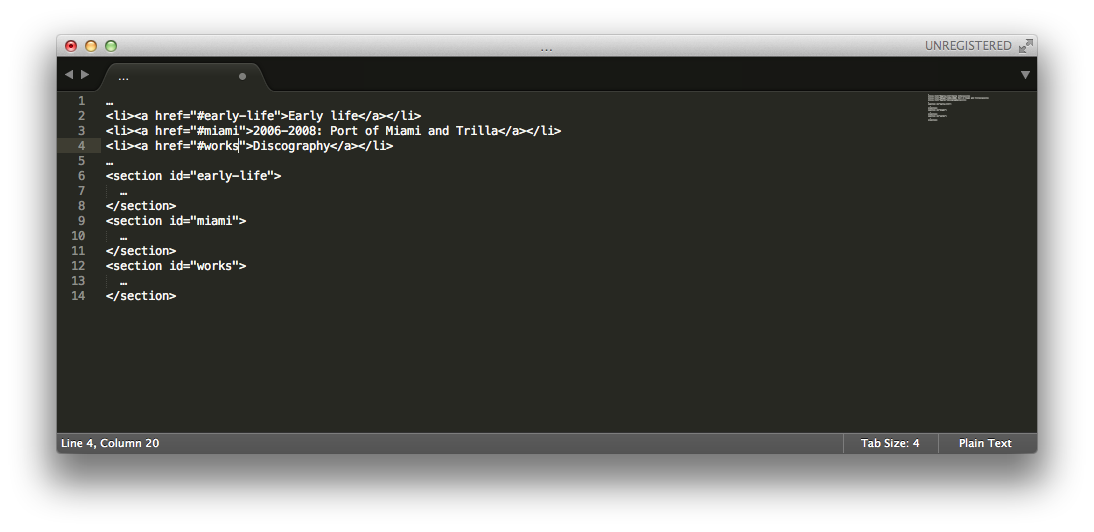
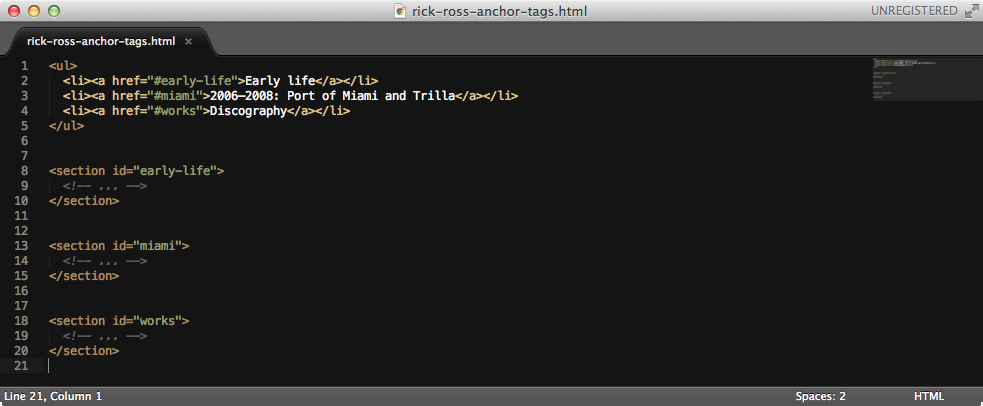
Practice fix started

diff --git a/mcs101.html b/mcs101.html
@@ -11,7 +11,7 @@
   <header class="page">
     <section class="wrapper">
       <section class="container">
-        <a class="link" href="http://bit.ly">bit.ly/mcs101</a>
+        <a class="link" href="http://bit.ly/MCS101">bit.ly/MCS101</a>
         <div class="line"></div>
         <div class="basics">Основы</div>
         <div class="html">HTML</div>
@@ -469,14 +469,43 @@
       <h3></h3>
       <p>Добавим несколько тегов</p>
 
-      <p class="center grey">Для быстрого написания открывающего и закрывающего тегов<br>напишите название тега и нажмите Tab.</p>
+      <p>Для быстрого написания открывающего и закрывающего тегов<br>напишите название тега и нажмите Tab.</p>
+
+      <p>В некоторых случаях можно удобно раздвинуть курсор на несколько строк используя сочетания Ctrl + Shift + &uarr; и Ctrl + Shift + &darr;. Дополнительный курсор можно вставить в любое место зажав Cmd.</p>
 
       <div class="img">
         <img src="imgs/09-hello-world-with-h-and-p.png">
       </div>
 
       <div class="img">
-        <img src="imgs/04-hello-world-in-browser.png">
+        <img src="imgs/09-hello-world-with-h-and-p-chrome.jpg">
+      </div>
+    </section>
+
+    <section>
+      <h3>Encoding</h3>
+      <p>Кодировка или как браузер понимает документ.</p>
+
+      <p>Если мы хотим общаться правильно, нам надо сказать браузеру<br>на каком "языке" мы с ним будем говорить.</p>
+
+      <p>Замените любой текст в нашем документе на русский и проверьте в браузере как он выглядит.</p>
+
+      <div class="img">
+        <img src="imgs/10-hello-world-with-charset-1.png">
+      </div>
+
+      <div class="img">
+        <img src="imgs/10-hello-world-with-charset-2.jpg">
+      </div>
+
+      <p>Необходимо указать кодировку в который мы будем передавать данные. Основным стандартом на сегодняшний день является UTF-8 или Unicode.</p>
+
+      <div class="img">
+        <img src="imgs/10-hello-world-with-charset-3.png">
+      </div>
+
+      <div class="img">
+        <img src="imgs/10-hello-world-with-charset-4.jpg">
       </div>
     </section>
 
@@ -495,27 +524,28 @@
       <h3></h3>
       <p>Организуем правильный DOM</p>
 
-      <p class="center grey">Для управления уровнем вложенности тега используйте сочетания<br>Cmd + [ и Cmd + ]. В некоторых случаях можно удобно раздвинуть курсор<br>на несколько строк используя сочетания Ctrl + Shift + &uarr; и Ctrl + Shift + &darr;.<br>Дополнительный курсор можно ставить в любое место зажав Cmd.</p>
+      <p>Для развёртывания базовой HTML структуры введите восклицательный знак и нажмите Tab.</p>
 
       <div class="img">
-        <img src="imgs/10-hello-world-with-dom.png">
+        <img src="imgs/10-hello-world-with-dom-1.png">
+      </div>
+
+      <p>В тег <code class="tagColor">title</code> пишется заголовок, который будет отображаться в окне браузера и в поисковике. Замените на что-то более релевантное нашей странице, например Hello World.</p>
+
+      <div class="img">
+        <img src="imgs/10-hello-world-with-dom-2.png">
+      </div>
+
+      <p>Теперь перенесите заголовки и параграф текста внутрь тега <code class="tagColor">body</code>.<br>Для управления уровнем вложенности тега используйте сочетания<br>Cmd + [ и Cmd + ].</p>
+
+      <div class="img">
+        <img src="imgs/10-hello-world-with-dom-3.png">
       </div>
 
       <p class="center grey">В редакторах кода предусмотрены различные цветовые схемы. Что бы код у нас с вами выглядел одинакого переключите цветовую схему<br>Preferences > Color Scheme > Twilight.</p>
 
       <div class="img">
         <img src="imgs/10-hello-world-with-dom-in-chrome.png">
-      </div>
-    </section>
-
-    <section>
-      <h3>Encoding</h3>
-      <p>Кодировка или как браузер понимает документ</p>
-
-      <p class="center grey">Если мы хотим общаться правильно, нам надо сказать браузеру<br>на каком "языке" мы с ним будем говорить.</p>
-
-      <div class="img">
-        <img src="imgs/10-hello-world-with-charset.png">
       </div>
     </section>
 
@@ -648,8 +678,6 @@
         <img src="imgs/14-html-formatting-1.png">
       </div>
 
-      <p class="center grey">Как мы уже сказали, HTML код предствляет иерархию, поэтому правила форматирования HTML помогают увидеть эту иерархию<br> работающему с кодом человеку.</p>
-
       <div class="img">
         <img src="imgs/14-html-formatting-2.png">
       </div>
@@ -699,25 +727,32 @@
     <h2>Zen Coding</h2>
 
     <section>
-      <p>История термина zen coding берёт свое начало из нулевых когда один из преподавателей Moscow Coding School — Сергей Чикуенок, на тот момент работавший в студии Артемия Лебедева, создал одноименный плагин который позволял кодерам писать меньше, а делать больше.</p>
+      <p>Мы уже показали вам несколько фишек дзен кодинга, такие как раздвигание курсора на несколько строк и раскрывание базовой структуры HTML документа. История этого термина берёт свое начало из 2008 года, тогда Вадим Макеев впервые представил инструмент для быстрого генерирования кода Zen Coding. Годом позже один из преподавателей Moscow Coding School — Сергей Чикуенок, на тот момент работавший в студии Артемия Лебедева, присоединился к проекту и стал его самым значимым контрибьютером.</p>
 
-      <p>Позже, Сергей создал более универсальный плагин Emmet, который мы сейчас рассмотрим.</p>
+      <p>На сегодняшний день многие концепции Zen Coding инкорпорированы в современные редакторы кода, а его код является общедоступным. Проект переименован в Emmet.</p>
     </section>
 
     <section>
+      <h3>Установка Emmet</h3>
+      <p>Для установки дополнительных плагинов в Sublime Text входим в командную сроку нажатием Cmd + Shift + P и находим<br>Package Control: Install Package.</p>
 
-      <p>3) Открываем командную стоку Sublime Text 2 нажатием Сtrl+Shift+P на Windows или Cmd+Shift+P на OSX и находим Package Control: Install Package.<br>То же самое можно сделать выбрав из меню Preferences -> Package Control</p>
-      <p>4) Теперь вы должны увидеть список пакетов доступных для установки. Нужный нам пакет называется Emmet.  Находим пакет Emmet (просто начните вводить <code>"emme..."</code> в Sublime Text 2 предусмотрен умный поиск). И нажимаем Enter чтоб установить.</p>
-      <br />
-      <br />
+      <p class="center grey">То же самое можно сделать выбрав из меню<br>Preferences -> Package Control.</p>
 
+      <p>Наните вводить название необходимого плагина и он появится в выдаче поиска. После выбора плагина нажмите Enter.</p>
 
-      <h3>Приступим к Zen кодингу.</h3> 
-      <p>Основные его правила можно описать в нескольких пунктах:</p>
-      <p>0) Главное правило для работы всех подсказок Emmet и Sublime это необходимость сохранить файл в нужном расширении, то есть для нашего случая это будет <code>'.html'</code></p>
-      <p>1) Попробуем создать небольшое меню для этого просто наберем <code>'div#header>ul#nav>li*4'</code> и нажмем клавишу <code>TAB</code></p>
+      <div class="img">
+        <img src="imgs/26-emmet.png">
+      </div>
+    </section>
+
+    <section>
+      <h3>Приступим к дзен кодингу</h3> 
+      <p>Главное правило для работы всех подсказок Emmet и Sublime — необходимость сохранить файл в нужном расширении,<br>то есть для нашего случая это будет <code class="tagColor">.html</code>.</p>
+
+      <p>Попробуем создать небольшое меню. Наберите <code>div#header>ul#nav>li*4</code> и нажмите Tab.</p>
+
       <p>Emmet автоматически создаст нам нужную разметку и задаст указанные атрибуты class и id</p>
-      <p>2) Попробуем выделить нашу конструкцию и нажмем сочетание <br /> <code>^W (Shift+Ctrl+G для PC)</code><br />
+      <p>2) Попробуем выделить нашу конструкцию и нажмем сочетание <br /> <code>Ctrl + W (Shift+Ctrl+G для PC)</code><br />
       внизу редактора откроется консоль и попросит нас ввести тег которым мы хотим обернуть данный элемент, вводим <code>'html>body'</code> и у нас уже готов базовый mark-up нашей страницы.</p>
       <p>Также мы можем просто написать в столбец <br>1<br>2<br>3<br>4<br> и выделив снова вызвать консоль оборачивания после чего указать тег списка внутри которого будут находиться элементы списка <code>'ul>li*'</code> где звездочка в данном случае укажет что для каждой строки нужно задать свой отдельный элемент и Emmet выполнит нашу просьбу </p>
       <p>3) Также Emmet позволяет нам двигаться внутри документа более быстро с зажатой клавишей <code>alt</code></p>
@@ -728,33 +763,22 @@
       <p>Для ознакомления с полным функционалом Emmet советую вам сходить на <br><a href="https://github.com/sergeche/emmet-sublime">страницу Github Сергея Чикуенка</a></p>
     </section>
 
-
-
-
     <h2>Практика</h2>
 
     <section>
       <h3>Давайте попробуем поупражняться в написании кода</h3>
       <p>Сейчас мы закодим свой вариант википедии</p>
 
-      <p class="center grey"><a href="exercises/exercise1.html">Упражнение 1</a></p>
+      <p>Откройте, пожалуйста, страницу <a href="http://en.wikipedia.org/wiki/Rick_Ross" target="_blank">Рика Роса</a>.</p>
+      <p>Создайте папку <code>wikipedia</code> внутри нашей папки MCS1.</p>
 
-      <br>
-
-      <p>Откройте, пожалуйста, страницу <a href="http://en.wikipedia.org/wiki/Rick_Ross">Рика Роса</a>.</p>
-      <p>Создайте папку <code>wikipedia</code> внутри нашей папки MCS1</p>
       <p>Создайте новый файл в текстовом редакторе (File – New File) и сохраните его в папку wikipedia с именем <code>rick-ross.html</code> Пробелы не являются разрешенными символами для адресов страниц, поэтому мы заменяем пробелы на знак «минус». Кроме того, для адресов страниц принято использовать латинские буквы в нижнем регистре.</p>
-    </section>
 
-    <section>
-      <h3>Давайте попробуем поупражняться в написании кода</h3>
-      <p>Сейчас мы закодим свой вариант википедии</p>
-
-      <div class="img plee">
-        <img height="" src="imgs/17-example3.png">
+      <div class="img">
+        <img src="imgs/17-rick-ross.png">
       </div>
 
-      <p class="center"><a href="examples/example3.html">Результат</a></p>
+      <p class="center"><a href="examples/wikipedia/rick-ross.html" target="_blank">Результат</a></p>
     </section>
 
     <section>
@@ -782,32 +806,31 @@
           <td><code>&lt;a&gt;&lt;/a&gt;</code></td>
           <td>Anchor – королева всех элементов, ссылка. У ссылки есть необходимый аттрибут — href (hypertext reference) — который указывает куда именно ведет ссылка. В нашем примере мы использовали <em>идентификатор фрагмента документа</em> в качестве адреса ссылки. То есть при навигации по этой ссылке браузер должен перейте к обозначенному фрагменту.</td>
         </tr>
-        <tr>
-          <td><code>&lt;h2&gt;&lt;/h2&gt;</code></td>
-          <td>Heading 2 – заголовок второго уровня, используется для подзаголовоков, задающих тему последующих кусков информации.</td>
-        </tr>
       </table>
     </section>
 
     <section>
       <h3>Фрагменты и ссылки</h3>
-      <p>Обратите внимание на аттрибуты секций и ссылок в разделе “Contents”</p>
+      <p>Обратите внимание на аттрибуты секций и ссылок.</p>
 
-      <div class="img plee">
+      <div class="img">
         <img src="imgs/18-iddesc.png">
       </div>
 
-      <p>Аттрибут <code class="tagColor">id</code> позволяет выделить фрагмент документа, т.е. при помощи этого аттрибута браузер знает к какому фрагменту нужно перейти при навигации по соответствующей ссылке.</p>
+      <p>Аттрибут <code class="tagColor">id</code> добавляет элементу уникальный идентификатор, т.е. при помощи этого аттрибута браузер знает к какому фрагменту нужно перейти при навигации по соответствующей ссылке.</p>
     </section>
 
     <section>
       <h3>Ссылки</h3>
-      <p>Мы сделали так, чтобы браузер перешел к определенному фрагменту нашей страницы. Но главное качество гипертекста — это ссылки между разными документами</p>
+      <p>Мы сделали так, чтобы браузер перешел к определенному фрагменту нашей страницы. Но главное качество гипертекста —<br>это ссылки между разными документами.</p>
 
-      <p>Создайте новый файл в папке <code>wikipedia</code> с именем <code>drake.html</code></p>
-      <p>Отройте его и скопируйте в него следующий код, но замените значение аттрибута <code>href</code> на название первого файла, а текст внутри тэга замените на такой, который подходит вашей странице по смыслу</p>
+      <p>В биографии Рика Росса есть ссылка на лейбл <a href="http://en.wikipedia.org/wiki/Maybach_Music_Group" target="_blank">Maybach Music Group</a>.</p>
 
-      <div class="img plee">
+      <p>Создайте новый файл в папке <code>wikipedia</code> с именем <code>maybach-music-group.html</code></p>
+
+      <p>Разверните в нём базовую структуру HTML, смените заголовок на название лейбла, создайте как в предидущей страничке заголовок и параграф текста.</p>
+
+      <div class="img">
         <img src="imgs/19-links1.png">
       </div>
 
@@ -839,7 +862,7 @@
     </section>
 
     <section>
-      <p>В папке wikipedia создайте папку imgs, откройте картинку по <a href="imgs/rick-ross.jpg">ссылке</a> и сохраните ее в только что созданную папку imgs</p>
+      <p>В папке wikipedia создайте папку imgs, откройте картинку по <a href="imgs/rick-ross.jpg">ссылке</a> и сохраните ее в только что созданную папку imgs.</p>
       <p>Давайте добавим новую секцию в нашу страницу на википедии сразу за первой секцией с параграфом текста.</p>
 
       <div class="img plee">
@@ -851,20 +874,20 @@
 
     <section>
       <h3>Стили</h3>
-      <p>Есть несколько способов подключить стили к документу HTML</p>
+      <p>Есть несколько способов подключить стили к документу HTML.</p>
     </section>
 
     <section>
       <h3>Элемент &lt;style></h3>
-      <p>Давайте откроем код нашей страницы и добавим новый элемент <code>style</code> внутри элемента <code>head</code></p>
+      <p>Давайте откроем код нашей страницы и добавим новый элемент <code>style</code> внутри элемента <code>head</code>.</p>
 
-      <div class="img plee">
+      <div class="img">
         <img src="imgs/css1.png">
       </div>
 
-      <p class="center">Напишем наш первый CSS</p>
+      <p class="center">Напишем наш первый CSS.</p>
 
-      <div class="img plee">
+      <div class="img">
         <img src="imgs/css2.png">
       </div>
 
@@ -892,12 +915,10 @@
 
     <section>
       <h3>Стили в отдельном файле</h3>
-      <p>Обычно удобнее использовать отдельный файл, для определния стилей</p>
+      <p>Обычно удобнее использовать отдельный файл, для определния стилей.</p>
 
-      <p>Одна из главных причин — можно подключать один и тот же файл стилей к разным страницам – что в случае с сайтами, которые часто имеют общий визуальный стиль, помогает не дублировать код.
+      <p>Одна из главных причин — можно подключать один и тот же файл стилей к разным страницам – что в случае с сайтами, которые часто имеют общий визуальный стиль, помогает не дублировать код.</p>
       <p>Кроме того, разделение ответственности (separation of concerns) при написании кода помогает в простоте поддержки проекта – изменение стилей страницы (CSS) не должно быть причиной изменения стуктуры и информации страницы (HTML).</p>
-
-      <br>
 
       <p>Создайте новый файл и сохраните его в папке проекта с именем <code>style.css</code> (обратите внимание на расширение <code>.css</code>)</p>
       <p>В этот файл скопируйте код из тэга <code>style</code>, который мы написали до этого</p>

diff --git a/examples/wikipedia/rick-ross.html b/examples/wikipedia/rick-ross.html
@@ -1,0 +1,71 @@
+<!DOCTYPE html>
+<html lang="en">
+<head>
+  <meta charset="utf-8">
+  <title>Rick Ross – Wikipedia, the free encyclopedia</title>
+</head>
+<body>
+
+  <header>
+    <h1>Rick Ross</h1>
+  </header>
+
+  <section>
+    <p><strong>William Leonard Roberts II </strong> (born January 28, 1976), better known by his stage name Rick Ross, is an American rapper. In 2009, Ross founded the record label <a href="maybach-music-group.html">Maybach Music Group</a>, on which he released his studio albums Deeper Than Rap (2009), Teflon Don (2010), God Forgives, I Don't (2012), and Mastermind (2014). Ross was also the first artist signed to Diddy's management company Ciroc Entertainment. In early 2012, MTV named Ross as the Hottest MC in the Game.</p>
+  </section>
+
+  <section>
+    <h2>Contents</h2>
+
+    <ul>
+      <li><a href="#early-life">Early life</a></li>
+      <li><a href="#miami">2006–2008: Port of Miami and Trilla</a></li>
+      <li><a href="#works">Discography</a></li>
+    </ul>
+  </section>
+
+  <section id="early-life">
+    <h2>Early life</h2>
+
+    <p>William Leonard Roberts II was born in Coahoma County, Mississippi,[5] and raised in Carol City, Florida.[6] After graduating from Miami Carol City Senior High School, he later attended the historically black college Albany State University on a football scholarship.[7] He derived his stage name from the former drug kingpin "Freeway" Rick Ross, to whom he has no connection.[8] Ross worked as a correctional officer for 18 months between December 1995 until his resignation in June 1997.</p>
+
+    <p>After being signed to Suave House Records, former label for rap duo 8Ball & MJG, he eventually signed a deal with Slip-n-Slide Records, which has been under the Def Jam umbrella since 2006. While signed to Slip-n-Slide, Ross toured with fellow rapper Trick Daddy and made guest performances on other Slip-n-Slide albums.</p>
+  </section>
+
+  <section id="miami">
+    <h2>2006–2008: Port of Miami and Trilla</h2>
+    
+    <p>His debut album Port of Miami was released in August 2006 and debuted at the top spot on the US Billboard 200 album chart, with sales at 187,000 units after its first week.[9][10] Christian Hoard of Rolling Stone magazine predicted that it would be "the summer's biggest rap record".[11] The second single was "Push It", which samples "Scarface (Push It to the Limit)", the theme song from the gangster film Scarface.[12] The music video for "Push It" was modeled after the film.[13] During that time, Ross made guest performances on two singles from DJ Khaled's debut Listennn... the Album: "Born-N-Raised" and "Holla at Me". Port of Miami received Gold certification from the Recording Industry Association of America on November 8, 2006.</p>
+
+    <p>In March 2008, his second album Trilla was released and, as its predecessor Port of Miami had, debuted at the top of the Billboard 200.[14] Its lead single "Speedin'" featuring R. Kelly peaked at number 21 on the US Billboard Bubbling Under Hot 100 Singles; the next one, "The Boss" featuring T-Pain peaked at number 17 on the Hot 100. The third single "Here I Am" featured Nelly and Avery Storm.[15] MTV News ranked Ross on the fourth spot in its 2008 "Hottest MCs in the Game" list among ten rappers.[16] The fourth single "This Is The Life" featured Trey Songz and was released in July.</p>
+  </section>
+
+  <section id="works">
+    <h2>Works</h2>
+
+    <h3>Discography</h3>
+
+    <ul>
+      <li>Port of Miami (2006)</li>
+      <li>Trilla (2008)</li>
+      <li>Deeper Than Rap (2009)</li>
+      <li>Teflon Don(2010)</li>
+      <li>God Forgives, I Don't (2012)</li>
+      <li>Mastermind (2014)</li>
+    </ul>
+
+    <h3>Filmography</h3>
+
+    <ul>
+      <li>Days of Wrath (2008)</li>
+      <li>Jimmy Kimmel Live! (2008-2012)</li>
+      <li>Late Show with David Letterman (2009)</li>
+      <li>Late Night with Jimmy Fallon (2009-2010)</li>
+      <li>Chelsea Lately (2010-2012)</li>
+      <li>Freaknik: The Musical (2010)</li>
+      <li>Magic City (2013)</li>
+    </ul>
+  </section>
+
+</body>
+</html>

diff --git a/examples/wikipedia/maybach-music-group.html b/examples/wikipedia/maybach-music-group.html
@@ -1,0 +1,20 @@
+<!DOCTYPE html>
+<html lang="en">
+<head>
+	<meta charset="UTF-8">
+	<title>Maybach Music Group</title>
+</head>
+<body>
+
+  <header>
+    <h1>Maybach Music Group</h1>
+  </header>
+
+  <section>
+    <p><strong>Maybach Music Group (MMG)</strong> is a record label imprint founded by American rapper Rick Ross. Maybach Music Group albums were formerly distributed by Warner Bros. Records, which took over distribution following the expiration of a deal with Def Jam Recordings. As of December 11, 2012 the labels releases are now distributed by Atlantic Records. Six solo and two compilation albums have been released by Maybach Music Group, including three certified Gold albums. The label is home to artists such as Ross himself, Wale, Meek Mill, French Montana, Omarion and Gunplay among others.</p>
+
+    <p><a href="rick-ross.html">&larr; Back to Rick Ross</a></p>
+  </section>
+	
+</body>
+</html>

diff --git a/examples/wikipedia/rick-ross-anchor-tags.html b/examples/wikipedia/rick-ross-anchor-tags.html
@@ -1,0 +1,20 @@
+<ul>
+  <li><a href="#early-life">Early life</a></li>
+  <li><a href="#miami">2006–2008: Port of Miami and Trilla</a></li>
+  <li><a href="#works">Discography</a></li>
+</ul>
+
+
+<section id="early-life">
+  <!-- ... -->
+</section>
+
+
+<section id="miami">
+  <!-- ... -->
+</section>
+
+
+<section id="works">
+  <!-- ... -->
+</section>
